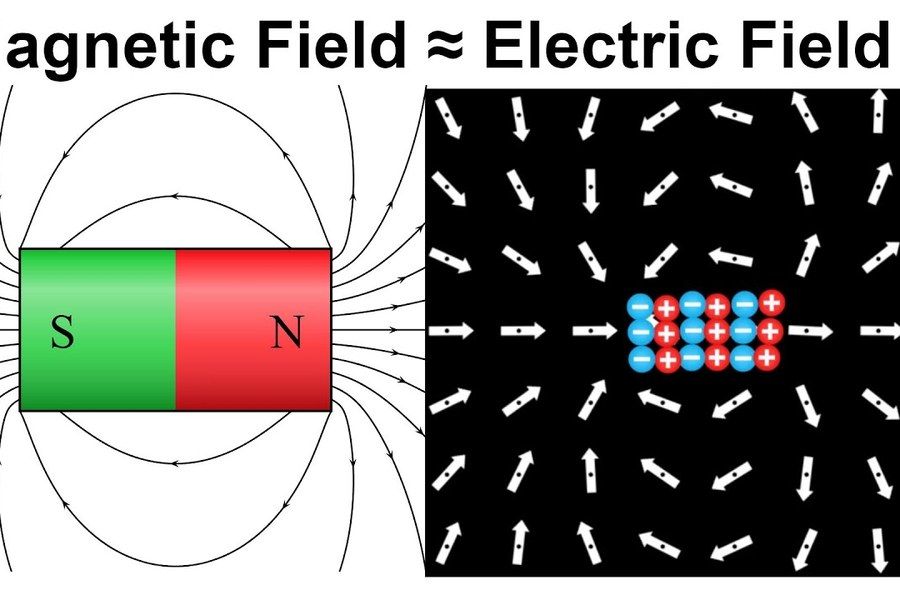
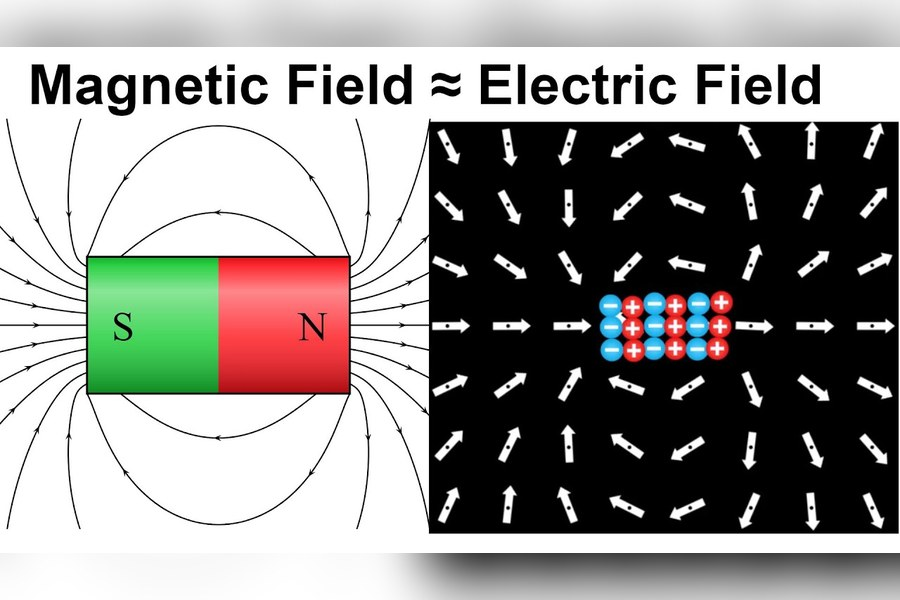
Physics tile: fit the whole first thumbnail instead of a crop that cut off its title

diff --git a/mes.fm/science/index.html b/mes.fm/science/index.html
@@ -1175,7 +1175,7 @@ body.is-stuck #header-controls { transform: none; bottom: auto; }
 <a class="icon-grid__link icon-grid__link--labeled" href="/science-posts"><span class="icon-grid__thumb" style="background-image:url('/img/science-posts-icon.jpg?v=2')"></span><span class="icon-grid__label">Posts</span></a>
 <a class="icon-grid__link icon-grid__link--labeled" href="/science-videos"><span class="icon-grid__thumb" style="background-image:url('/img/science-videos-icon.jpg?v=3')"></span><span class="icon-grid__label">Videos</span></a>
 <a class="icon-grid__link icon-grid__link--labeled" href="/science-tutorials"><span class="icon-grid__thumb" style="background-image:url('/img/science-tutorials-icon.jpg?v=1')"></span><span class="icon-grid__label">Tutorials</span></a>
-<a class="icon-grid__link icon-grid__link--labeled" href="/physics"><span class="icon-grid__thumb" style="background-image:url('/img/physics-icon.jpg?v=1')"></span><span class="icon-grid__label">Physics</span></a>
+<a class="icon-grid__link icon-grid__link--labeled" href="/physics"><span class="icon-grid__thumb" style="background-image:url('/img/physics-icon.jpg?v=2')"></span><span class="icon-grid__label">Physics</span></a>
 <a class="icon-grid__link icon-grid__link--labeled" href="/earth-curvature-calculator"><span class="icon-grid__thumb" style="background-image:url('/img/earth-curvature-icon.jpg?v=1')"></span><span class="icon-grid__label">Earth Curvature Calculator</span></a>
 <a class="icon-grid__link icon-grid__link--labeled" href="/moon"><span class="icon-grid__thumb" style="background-image:url('/img/moon-icon.jpg?v=1')"></span><span class="icon-grid__label">Moon, Sun &amp; Planets</span></a>
 <a class="icon-grid__link icon-grid__link--labeled" href="/solar-system-today"><span class="icon-grid__thumb" style="background-image:url('/img/solar-system-today-icon.jpg?v=1')"></span><span class="icon-grid__label">Solar System Today</span></a>
